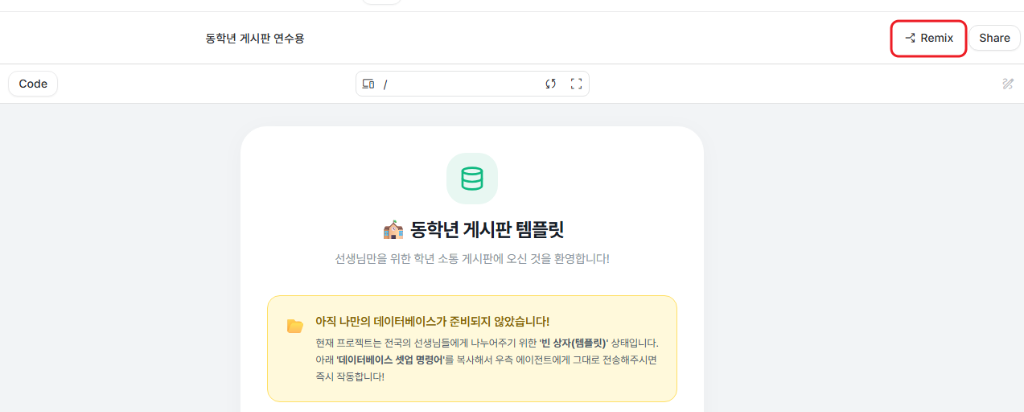
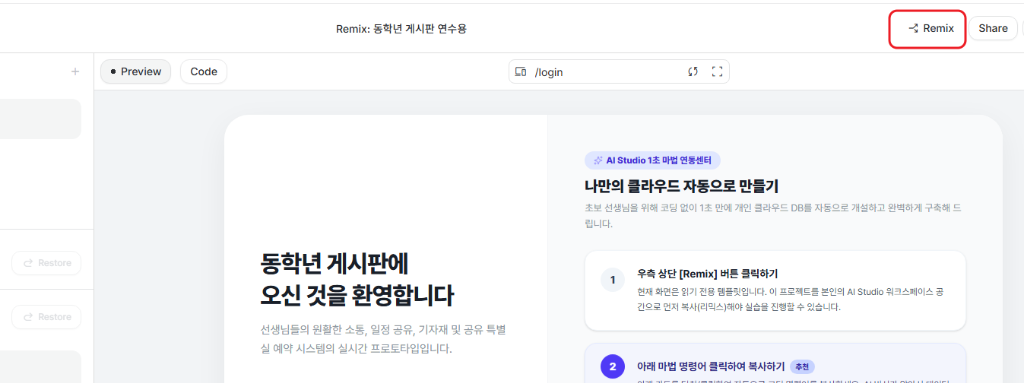
style: update slide 1 title and description, and replace remix screenshot

diff --git a/guides/vibe-coding-grade-board.html b/guides/vibe-coding-grade-board.html
@@ -413,8 +413,8 @@
           
           <!-- [1단계] -->
           <div class="slide-card active" data-step="1">
-            <h2>1단계: 동학년 게시판 알아보고 복제하기 (Remix)</h2>
-            <p>초록덕후가 미리 다 만들어 놓은 실시간 동학년 협업 게시판의 주요 기능들을 살펴보고 내 보관함에 복제합니다.</p>
+            <h2>1단계: 동학년 게시판 둘러보고 복제하기 (Remix)</h2>
+            <p>동학년 협업 게시판의 주요 기능들을 살펴보고 내 보관함에 복제합니다.</p>
 
             <!-- 기능 소개 -->
             <div class="feature-grid">
